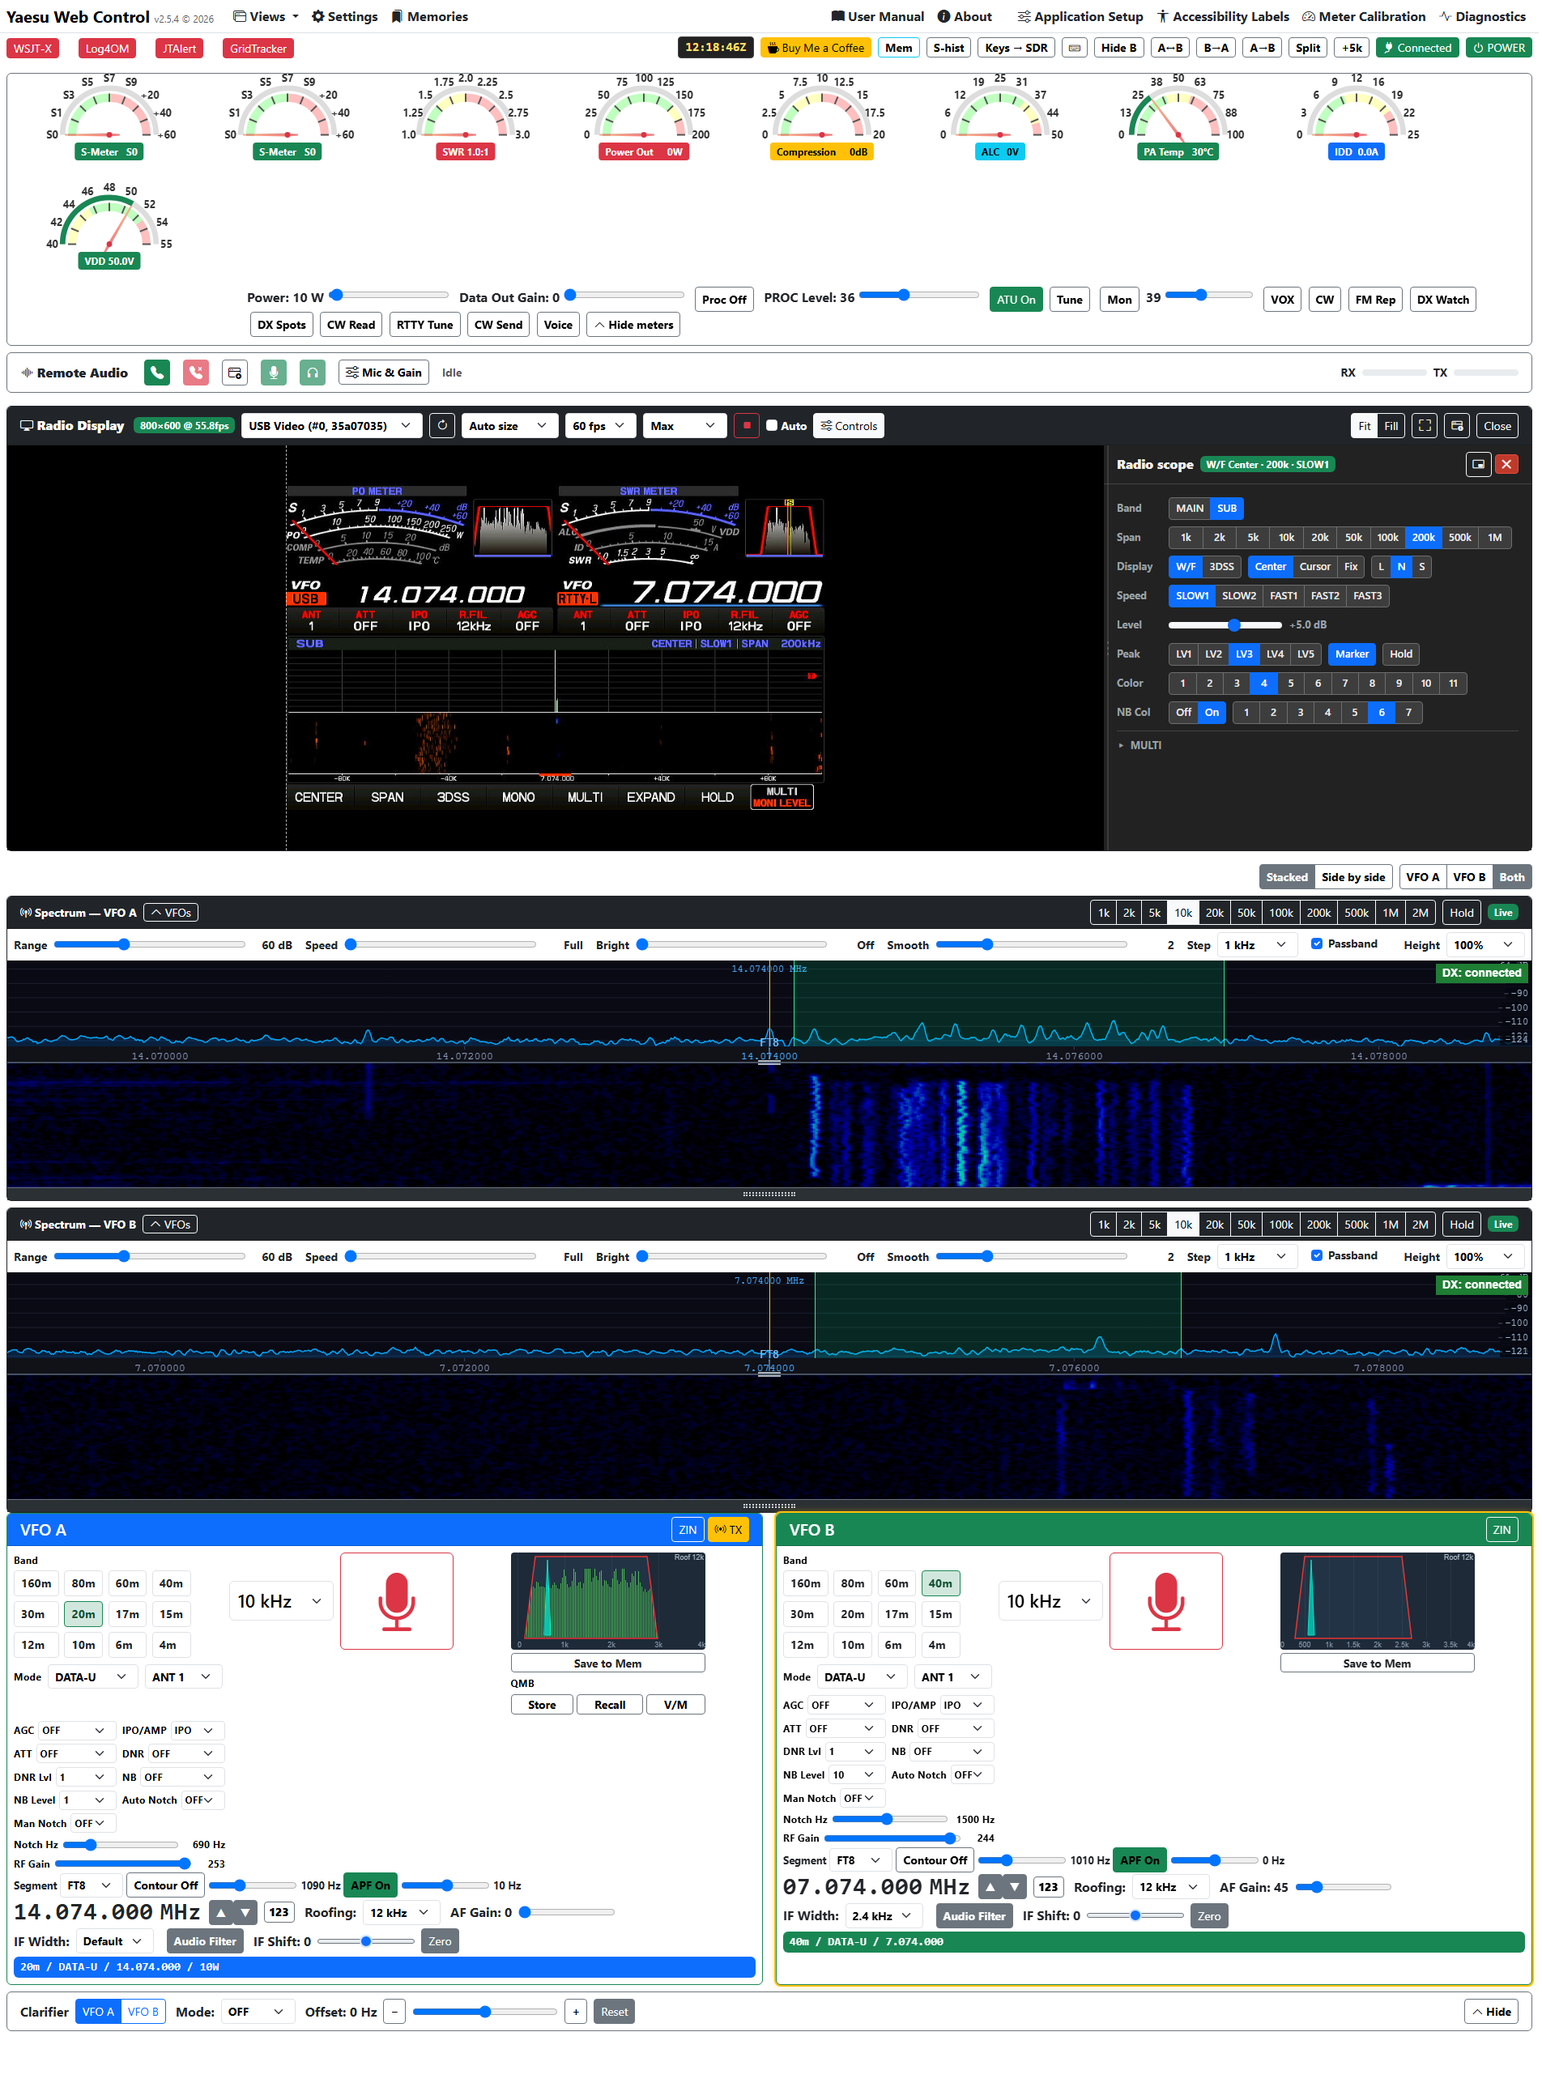
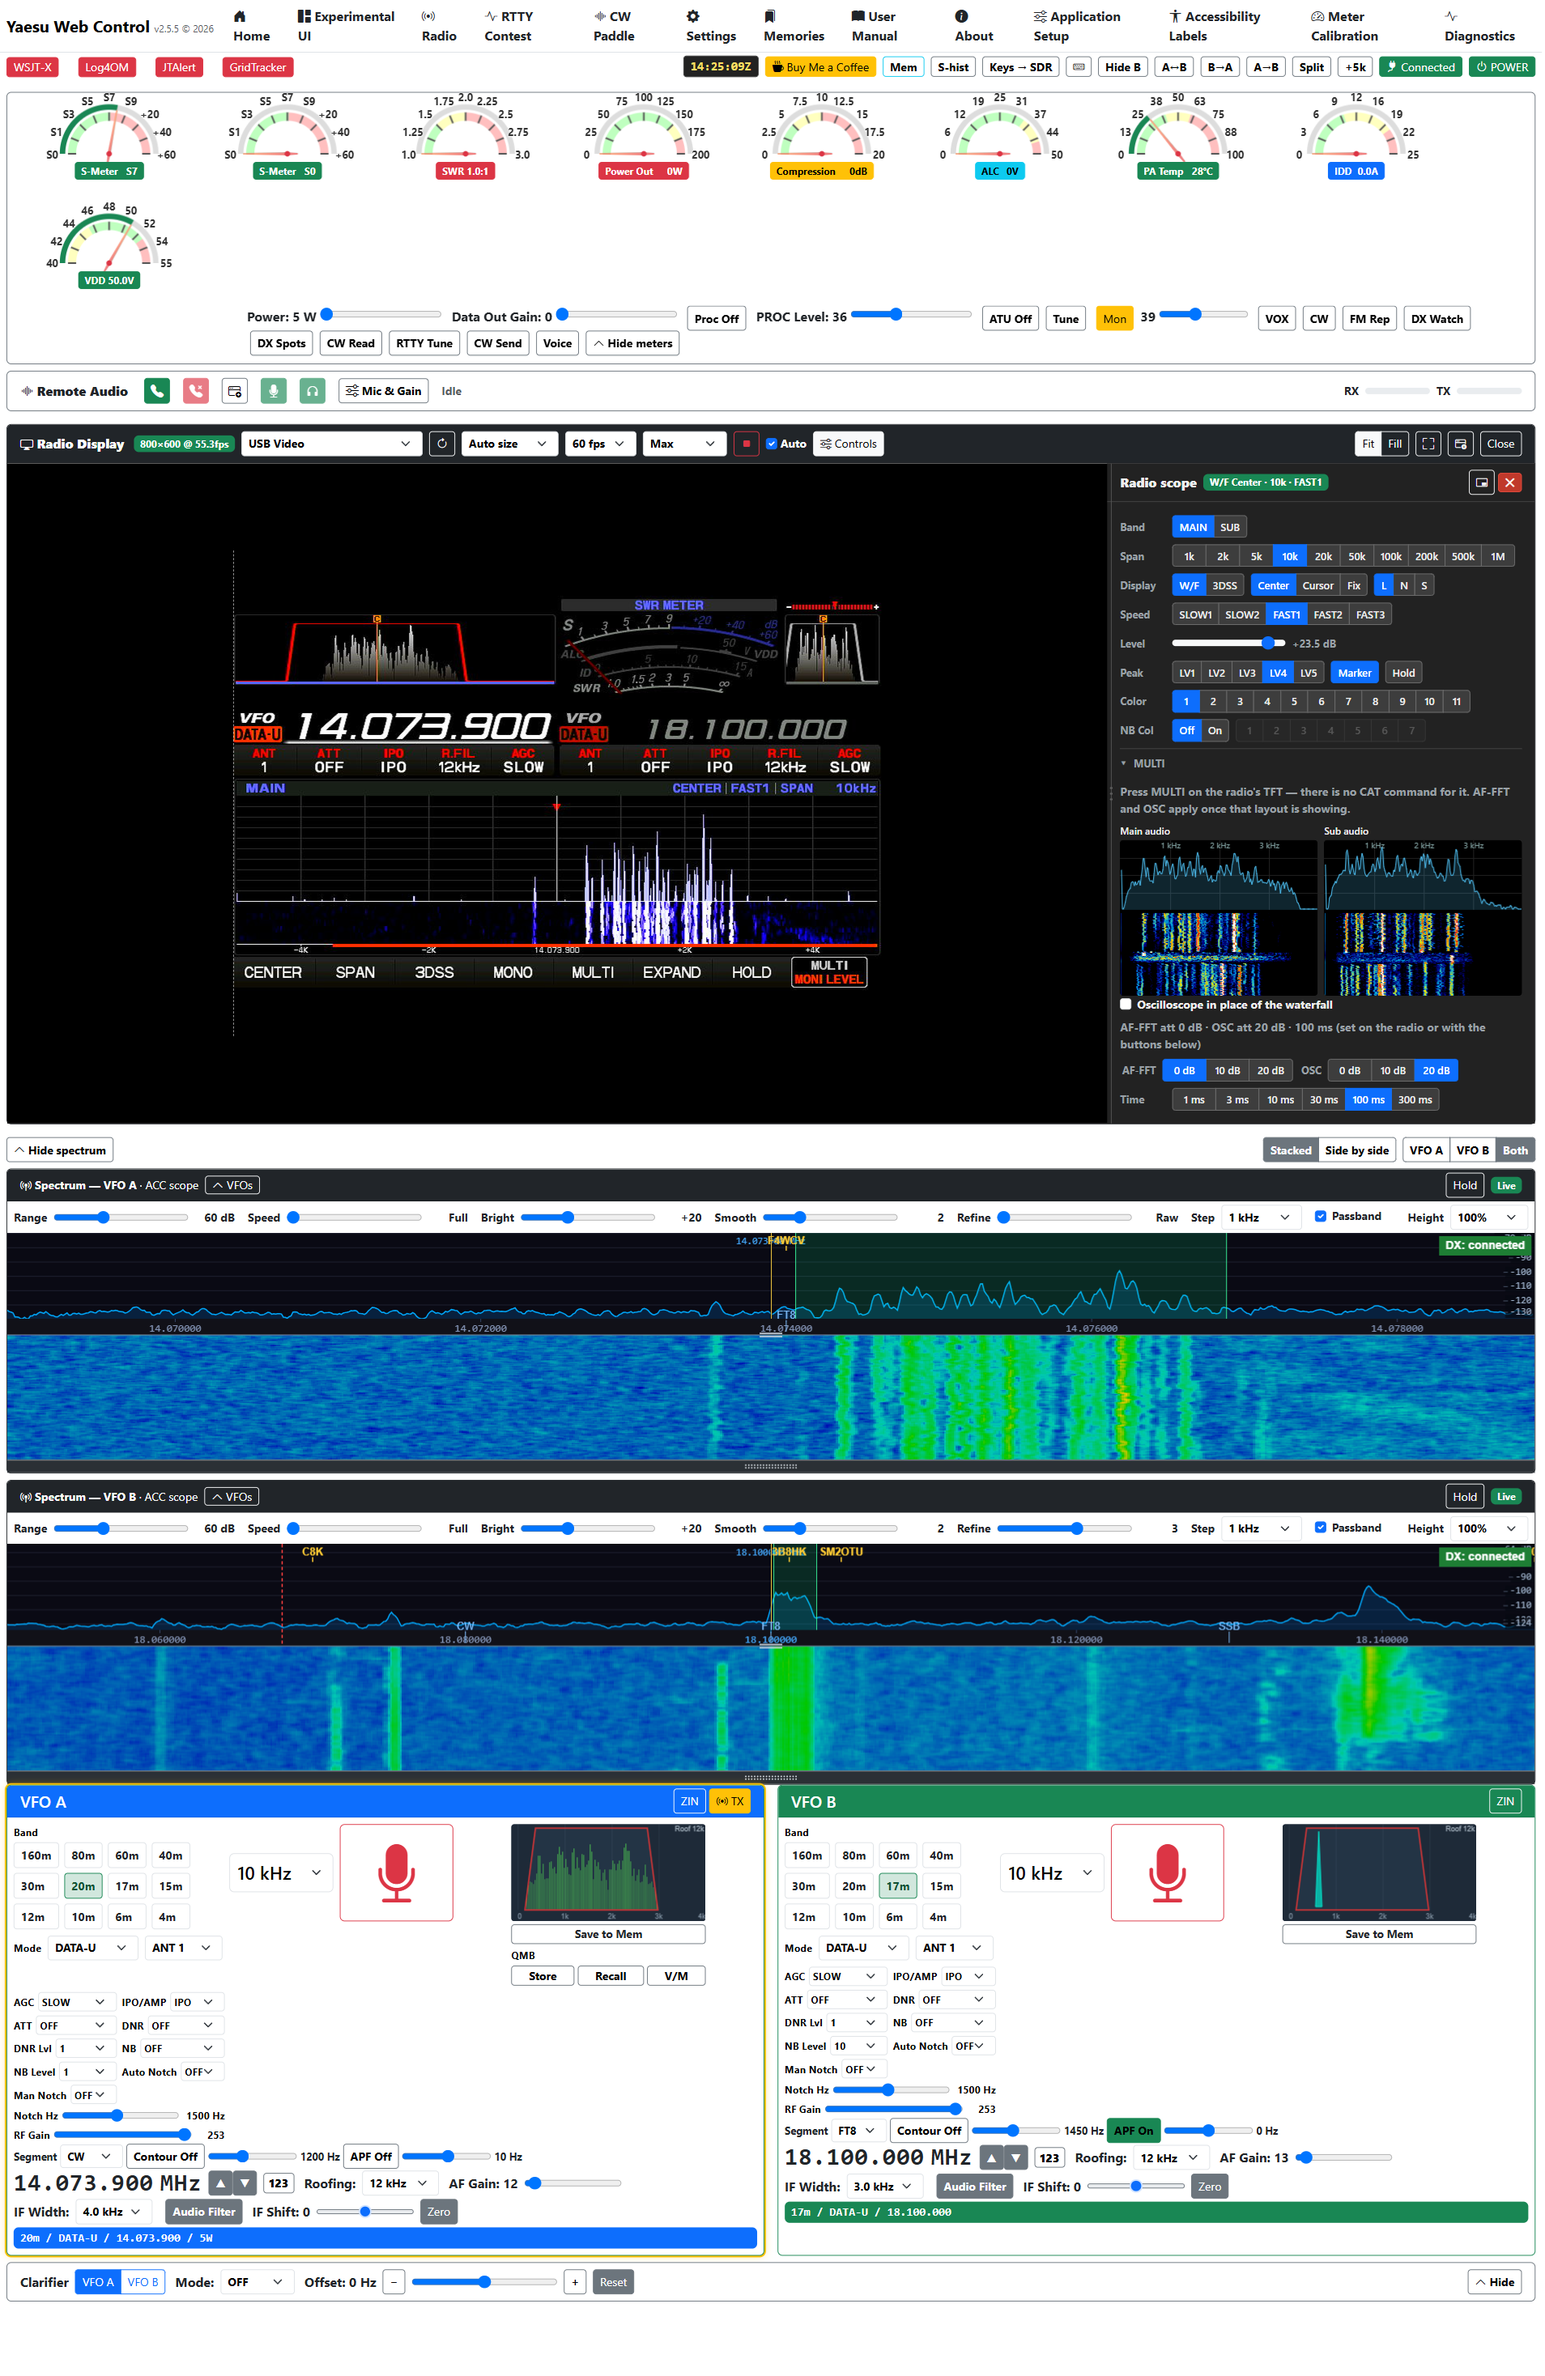
YWC: the new Classic picture with the audio scope; v2.5.6-pre1 has it

diff --git a/index.html b/index.html
@@ -372,9 +372,9 @@
                             <label for="views-classic-1">Yaesu</label>
                             <label for="views-classic-2">Icom</label>
                         </div>
-                        <a class="shot" href="pictures/YWC_Classic.png?v=2" target="_blank" rel="noopener">
-                            <img src="pictures/YWC_Classic.png?v=2"
-                                alt="YWC Classic page with meters, the radio's TFT screen, SDR spectrums for Main and Sub, and a large VFO card per receiver"
+                        <a class="shot" href="pictures/YWC_Classic.png?v=3" target="_blank" rel="noopener">
+                            <img src="pictures/YWC_Classic.png?v=3"
+                                alt="YWC Classic page with meters, the radio's screen over HDMI with its scope controls and each receiver's audio scope from the ACC board, a spectrum and waterfall for each receiver with the FT8 signals, and a card for each VFO"
                                 loading="lazy">
                         </a>
                         <a class="shot" href="pictures/IWC_Classic.png?v=2" target="_blank" rel="noopener">
@@ -643,9 +643,9 @@
                             alt="YWC Radio panel in the Silver classic theme, with SDR spectrums for Main on 20 m FT8 and Sub on 40 m FT8 one above the other"
                             loading="lazy">
                     </a>
-                    <a class="shot" href="pictures/YWC_Classic.png?v=2" target="_blank" rel="noopener">
-                        <img src="pictures/YWC_Classic.png?v=2"
-                            alt="YWC Classic page with the Views dropdown, meters, the radio's TFT screen, SDR spectrums for Main on 20 m FT8 and Sub on 40 m FT8, and a VFO card per receiver"
+                    <a class="shot" href="pictures/YWC_Classic.png?v=3" target="_blank" rel="noopener">
+                        <img src="pictures/YWC_Classic.png?v=3"
+                            alt="YWC Classic page with meters, the radio's screen over HDMI with its scope controls and each receiver's audio scope from the ACC board, a spectrum and waterfall for each receiver with the FT8 signals, and a card for each VFO"
                             loading="lazy">
                     </a>
                     <a class="shot" href="pictures/YWC_Experimental.png?v=2" target="_blank" rel="noopener">
@@ -671,7 +671,8 @@
                             at every span from 1 kHz to 1 MHz. Show Main, Sub, or both receivers at once.
                             On an FTdx101 the radio's own scope can feed them instead, from
                             <a href="#acc">a small board on its ACC socket</a>, with Refine to settle the
-                            noise floor. New in v2.5.5.</p>
+                            noise floor. New in v2.5.5. The board's audio scope, each receiver's
+                            AF-FFT above an audio waterfall, is in the v2.5.6-pre1 pre-release.</p>
                     </div>
                     <div class="card">
                         <h3>The radio's screen in your browser</h3>
@@ -904,7 +905,7 @@
                         <p>Each receiver's AF-FFT, 0 to 4 kHz, comes from the ACC socket too, with an
                             audio waterfall under it that holds a whole FT8 cycle: every station is a
                             stripe. The radio's oscilloscope is a click away. In the viewer's 1.1.0
-                            pre-release, and in YWC's MULTI group in its next release.</p>
+                            pre-release, and in YWC's MULTI group in the v2.5.6-pre1 pre-release.</p>
                     </div>
                     <div class="card">
                         <h3>My own firmware</h3>
